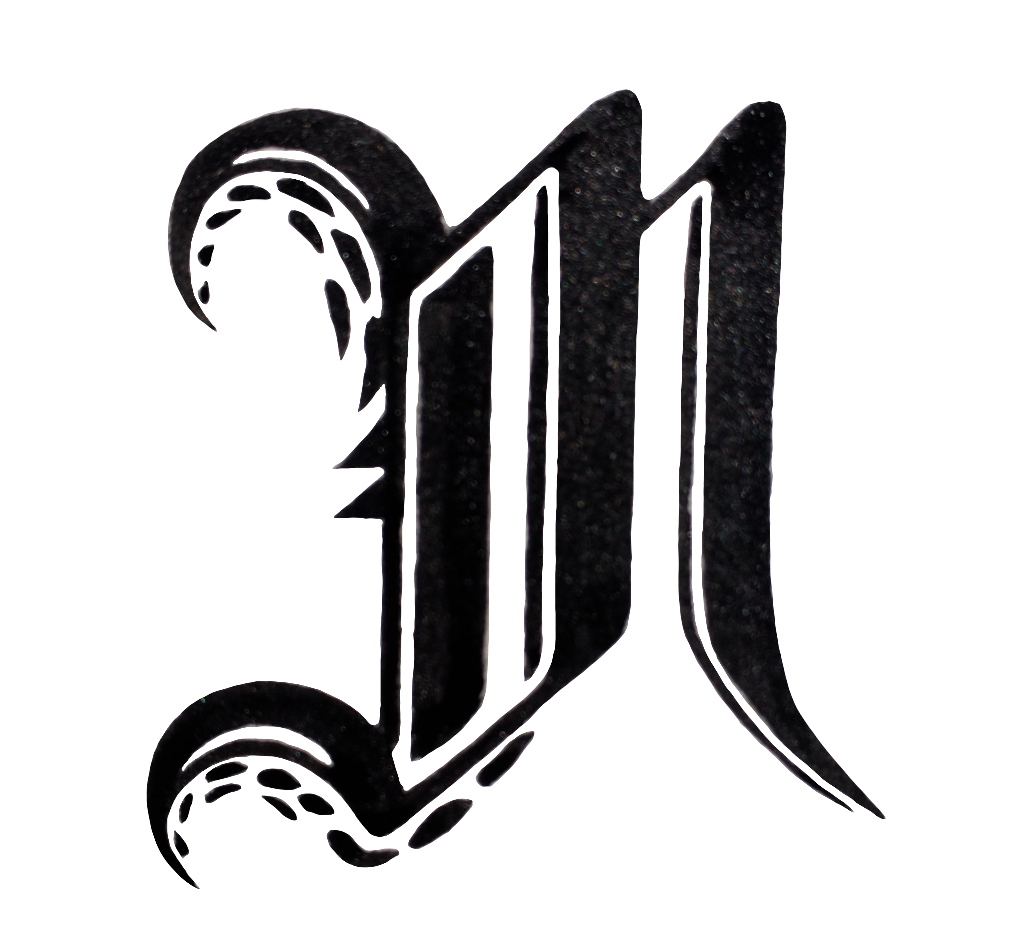
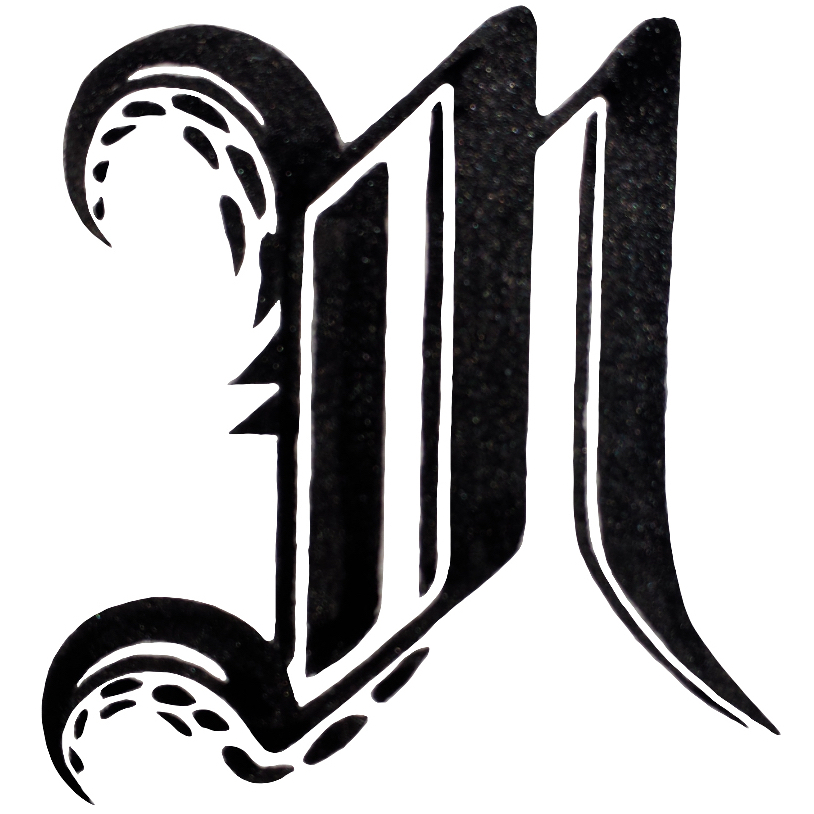
updated image size

Changed region(s): [[0.0307, 0.0, 0.9521, 0.9828]]

diff --git a/_includes/header.html b/_includes/header.html
@@ -1,6 +1,6 @@
 <div class="header">
     <p class="photo">
-        <img src="https://sirmurphalot.github.io/murph_mono.jpeg" width="80px" height="80px">
+        <img src="https://sirmurphalot.github.io/murph_mono.jpeg" width="100px" height="100px">
     </p>
 </div>
 <ul class="navbar" id="myNavbar">
